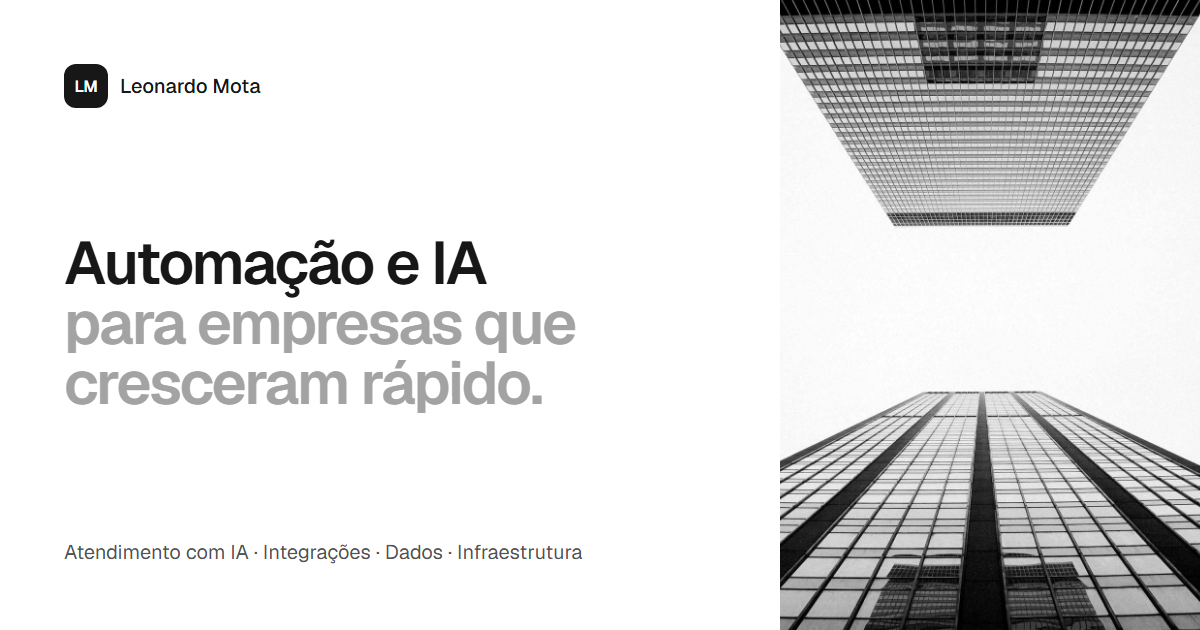
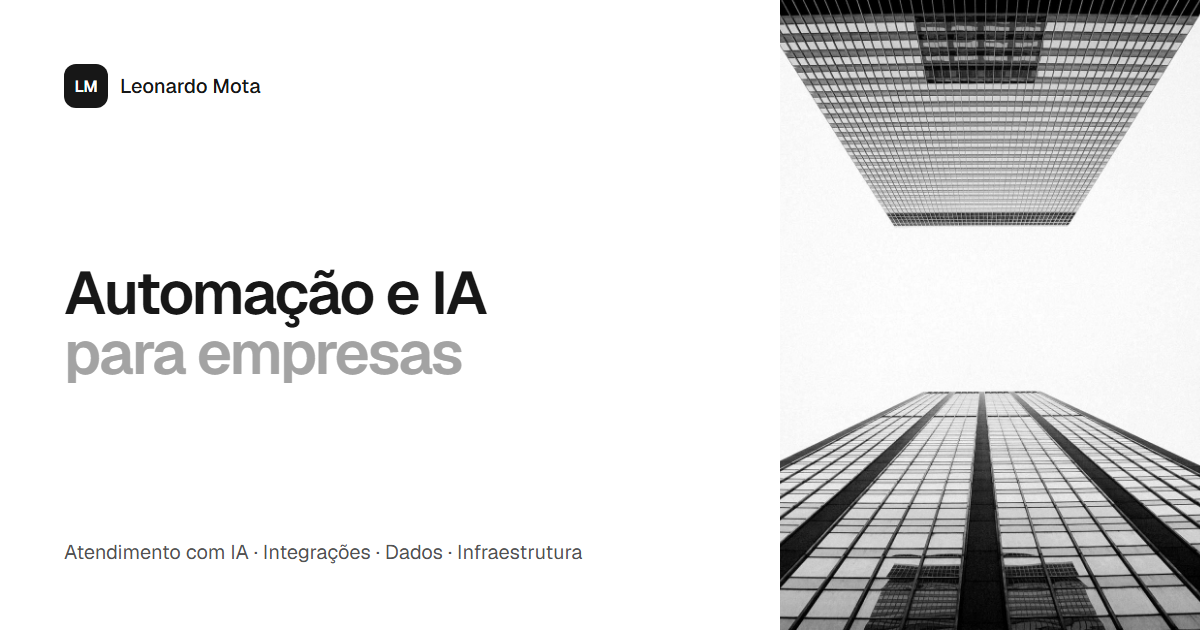
Título do topo só "Automação e IA para empresas", a pedido do dono (og.png junto)

Changed region(s): [[0.0308, 0.3619, 0.4933, 0.6635]]

diff --git a/index.html b/index.html
@@ -98,8 +98,7 @@
           <p class="status caption-1"><span class="status-dot" aria-hidden="true"></span>Agenda aberta para novos projetos</p>
           <h1 class="heading-1 hero-title" id="hero-titulo">
             <span>Automação e IA</span>
-            <span class="dim">para empresas que</span>
-            <span class="dim">cresceram rápido.</span>
+            <span class="dim">para empresas</span>
           </h1>
           <p class="hero-sub title-2">Quando o processo não acompanha o crescimento, a equipe vira ponte entre sistemas. Conecto o que você já usa, coloco agentes de IA no atendimento e mantenho a infraestrutura no ar.</p>
           <div class="hero-actions">
